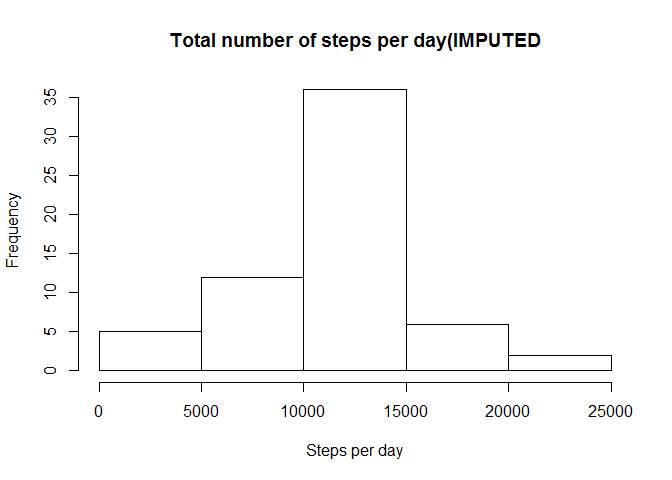
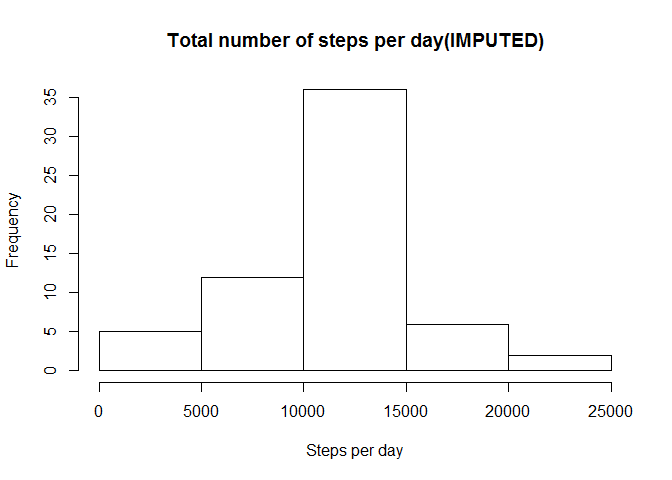
Made a change to some text.

Changed region(s): [[0.25, 0.0625, 0.8125, 0.125]]

diff --git a/PA1_template.html b/PA1_template.html
@@ -170,12 +170,11 @@ qplot(as.integer(interval), mean, data=s3,  geom=&quot;line&quot;, xlab=&quot;In
   }
 } </code></pre>
 <p>Next I will make a histogram of this altered data frame</p>
-<pre class="r"><code># total of steps/day
-steps_tot_1 &lt;- aggregate(steps ~ date, act_w_NAs, sum)
+<pre class="r"><code>steps_tot_1 &lt;- aggregate(steps ~ date, act_w_NAs, sum)
 
 # histogram of steps/day
-hist(steps_tot_1$steps, main = &quot;Total number of steps per day(IMPUTED&quot;, xlab = &quot;Steps per day&quot;)</code></pre>
[1 lines of base64/hex data omitted]
+hist(steps_tot_1$steps, main = &quot;Total number of steps per day(IMPUTED)&quot;, xlab = &quot;Steps per day&quot;)</code></pre>
[1 lines of base64/hex data omitted]
 <p>And finally, here are the meas and medians of the altered data frame.</p>
 <pre class="r"><code>mean(steps_tot_1$steps)</code></pre>
 <pre><code>## [1] 10766.19</code></pre>

diff --git a/PA1_template.md b/PA1_template.md
@@ -158,11 +158,10 @@ for (i in 1:nrow(act_w_NAs)) {
 Next I will make a histogram of this altered data frame
 
 ```r
-# total of steps/day
 steps_tot_1 <- aggregate(steps ~ date, act_w_NAs, sum)
 
 # histogram of steps/day
-hist(steps_tot_1$steps, main = "Total number of steps per day(IMPUTED", xlab = "Steps per day")
+hist(steps_tot_1$steps, main = "Total number of steps per day(IMPUTED)", xlab = "Steps per day")
 ```
 
 ![](PA1_template_files/figure-html/unnamed-chunk-10-1.png) 
